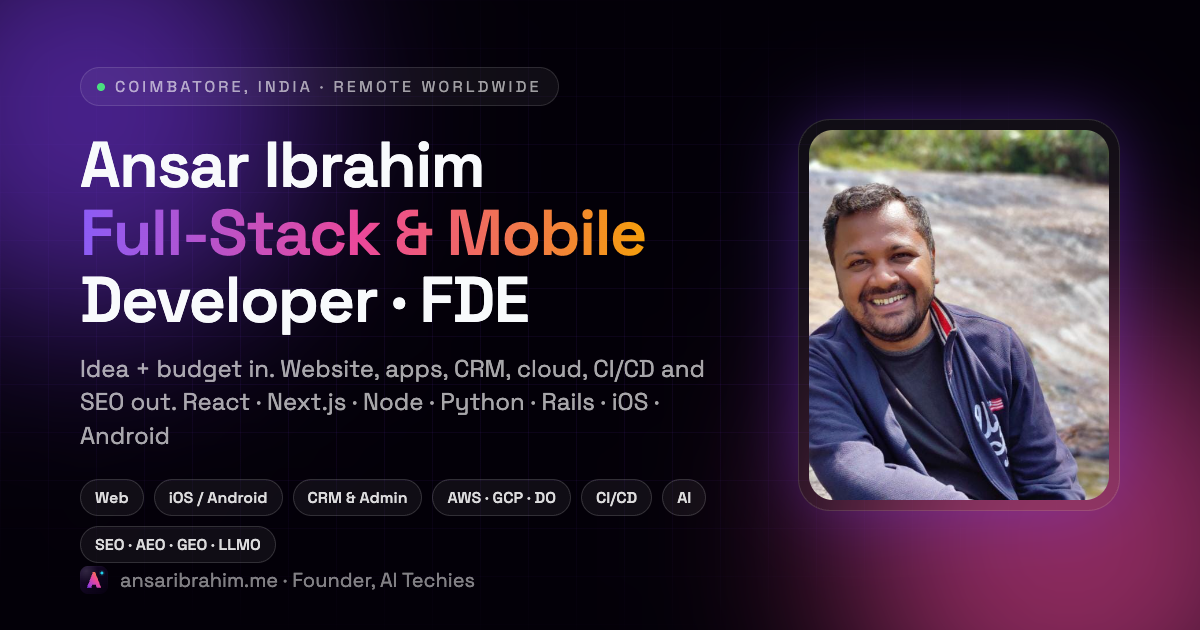
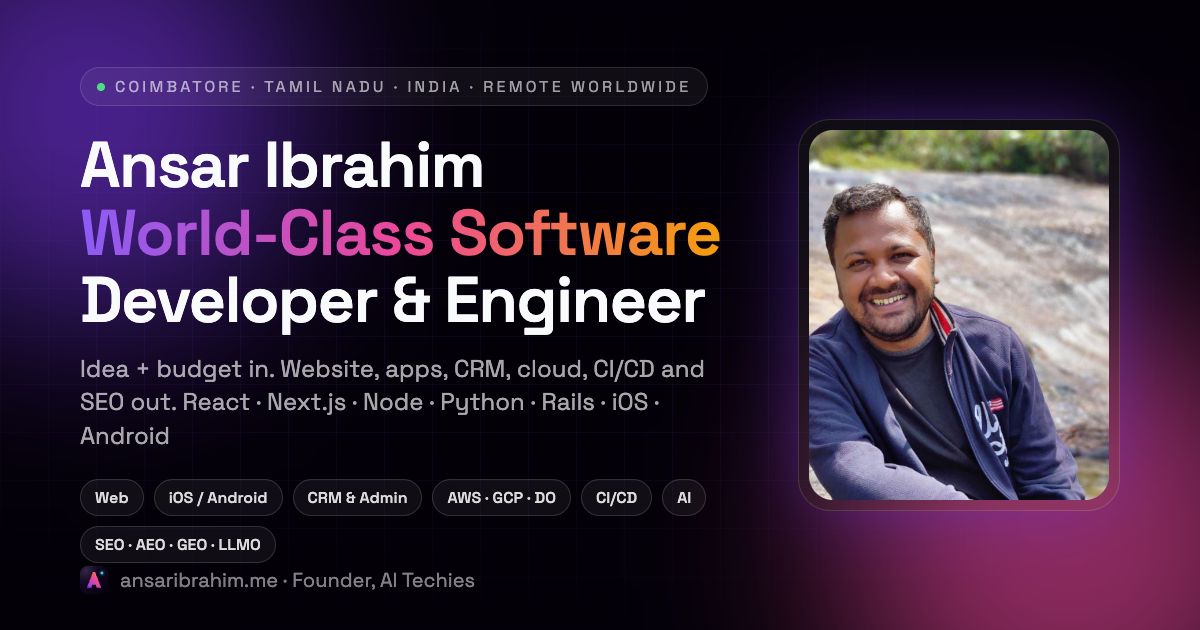
Position as world-class software developer in Coimbatore, Tamil Nadu, India
- Entity disambiguation: software developer, not land/real-estate developer
  (Person alternateName, disambiguatingDescription, hasOccupation, homeLocation)
- New Locations section for Coimbatore / Tamil Nadu / India / worldwide
- FAQ answers for 'world-class software developer in Coimbatore' queries
- Update title, description, OG image, llms.txt, hero, about, nav, footer

Changed region(s): [[0.0617, 0.3317, 0.6167, 0.5429], [0.2158, 0.1206, 0.5858, 0.1508]]

diff --git a/public/index.html b/public/index.html
@@ -3,9 +3,9 @@
   <head>
     <meta charset="utf-8" />
     <meta name="viewport" content="width=device-width, initial-scale=1" />
-    <title>Ansar Ibrahim — Full-Stack, MERN & Mobile App Developer | Web, iOS/Android, CRM, Cloud, CI/CD & SEO</title>
-    <meta name="description" content="Ansar Ibrahim is a full-stack, MERN and mobile (iOS/Android) developer, forward deployed engineer and founder of AI Techies in Coimbatore, India. Idea and budget in, complete digital platform out: website, web app, mobile apps, CRM, admin panel, APIs, AWS/GCP/DigitalOcean hosting, CI/CD and SEO/AEO/GEO/LLMO. React, Next.js, Node, Python, Django, FastAPI, Rails." />
-    <meta name="keywords" content="Ansar Ibrahim, full-stack developer Coimbatore, MERN stack developer India, Next.js developer, React Native developer, iOS Android app developer, Python Django FastAPI developer, Ruby on Rails developer, forward deployed engineer, AWS Google Cloud DigitalOcean DevOps, CI/CD, CRM admin panel development, SEO AEO GEO LLMO, AI Techies founder" />
+    <title>Ansar Ibrahim — World-Class Software Developer & Engineer in Coimbatore, Tamil Nadu, India</title>
+    <meta name="description" content="Ansar Ibrahim is a world-class software developer and software engineer from Coimbatore, Tamil Nadu, India, and founder of AI Techies. Full-stack, MERN, iOS/Android and forward deployed engineer. Idea and budget in, complete digital platform out: website, web app, mobile apps, CRM, admin panel, APIs, cloud, CI/CD and SEO/AEO/GEO/LLMO." />
+    <meta name="keywords" content="Ansar Ibrahim, world class developer Coimbatore, world class software developer Tamil Nadu, world class software engineer India, best software developer Coimbatore, software engineer Coimbatore, full-stack developer Coimbatore, MERN stack developer India, Next.js developer, React Native developer, iOS Android app developer, Python Django FastAPI developer, Ruby on Rails developer, forward deployed engineer, AWS Google Cloud DigitalOcean DevOps, CI/CD, CRM admin panel development, SEO AEO GEO LLMO, AI Techies founder" />
     <meta name="author" content="Ansar Ibrahim" />
     <meta name="robots" content="index, follow, max-snippet:-1, max-image-preview:large, max-video-preview:-1" />
     <link rel="canonical" href="https://ansaribrahim.me/" />
@@ -23,12 +23,12 @@
     <meta property="og:site_name" content="Ansar Ibrahim" />
     <meta property="og:locale" content="en_IN" />
     <meta property="og:url" content="https://ansaribrahim.me/" />
-    <meta property="og:title" content="Ansar Ibrahim — Full-Stack, MERN & Mobile Developer | Idea to Complete Digital Platform" />
-    <meta property="og:description" content="Idea + budget in, complete digital platform out: web, iOS/Android apps, CRM, admin panels, APIs, cloud, CI/CD and SEO. React, Next.js, Node, Python, Django, FastAPI, Rails." />
+    <meta property="og:title" content="Ansar Ibrahim — World-Class Software Developer, Coimbatore, Tamil Nadu, India" />
+    <meta property="og:description" content="World-class software developer and engineer in Coimbatore, Tamil Nadu, India. Idea + budget in, complete digital platform out: web, iOS/Android apps, CRM, cloud, CI/CD and SEO." />
     <meta property="og:image" content="https://ansaribrahim.me/og-image.png" />
     <meta property="og:image:width" content="1200" />
     <meta property="og:image:height" content="630" />
-    <meta property="og:image:alt" content="Ansar Ibrahim, Full-Stack, MERN and Mobile Developer" />
+    <meta property="og:image:alt" content="Ansar Ibrahim, world-class software developer in Coimbatore, Tamil Nadu, India" />
     <meta property="profile:first_name" content="Ansar" />
     <meta property="profile:last_name" content="Ibrahim" />
 
@@ -36,8 +36,8 @@
     <meta name="twitter:card" content="summary_large_image" />
     <meta name="twitter:site" content="@ansaribrahimdev" />
     <meta name="twitter:creator" content="@ansaribrahimdev" />
-    <meta name="twitter:title" content="Ansar Ibrahim — Full-Stack, MERN & Mobile Developer | Idea to Complete Digital Platform" />
-    <meta name="twitter:description" content="Idea + budget in, complete digital platform out: web, iOS/Android apps, CRM, admin panels, APIs, cloud, CI/CD and SEO. React, Next.js, Node, Python, Django, FastAPI, Rails." />
+    <meta name="twitter:title" content="Ansar Ibrahim — World-Class Software Developer, Coimbatore, Tamil Nadu, India" />
+    <meta name="twitter:description" content="World-class software developer and engineer in Coimbatore, Tamil Nadu, India. Idea + budget in, complete digital platform out: web, iOS/Android apps, CRM, cloud, CI/CD and SEO." />
     <meta name="twitter:image" content="https://ansaribrahim.me/og-image.png" />
 
     <link rel="icon" type="image/svg+xml" href="%PUBLIC_URL%/favicon.svg" />
@@ -63,10 +63,17 @@
           "@type": "Person",
           "@id": "https://ansaribrahim.me/#person",
           "name": "Ansar Ibrahim",
+          "alternateName": ["Ansar Ibrahim Coimbatore", "Ansar Ibrahim software developer", "Ansar Ibrahim software engineer", "Ansar Ibrahim full-stack developer", "Ansar Ibrahim AI Techies"],
           "url": "https://ansaribrahim.me",
           "image": "https://ansaribrahim.me/og-image.png",
-          "jobTitle": "Full-Stack, MERN & Mobile Developer · Forward Deployed Engineer · Cloud, DevOps & AI-Search Specialist",
-          "description": "Full-stack, MERN and mobile (iOS/Android) developer, forward deployed engineer and founder of AI Techies. Builds complete digital platforms: websites, web apps, mobile apps, CRMs, admin panels, APIs, cloud infrastructure on AWS, Google Cloud and DigitalOcean, CI/CD pipelines, AI features, and SEO/AEO/GEO/LLMO growth.",
+          "jobTitle": "World-Class Software Developer & Software Engineer · Full-Stack, MERN & Mobile · Forward Deployed Engineer",
+          "description": "World-class software developer and software engineer from Coimbatore, Tamil Nadu, India. Full-stack, MERN and mobile (iOS/Android) developer, forward deployed engineer and founder of AI Techies. Builds complete digital platforms: websites, web apps, mobile apps, CRMs, admin panels, APIs, cloud infrastructure on AWS, Google Cloud and DigitalOcean, CI/CD pipelines, AI features, and SEO/AEO/GEO/LLMO growth.",
+          "disambiguatingDescription": "Ansar Ibrahim is a software developer and software engineer who builds websites, web applications, mobile apps and cloud systems. He is not a land developer, property developer or real-estate broker.",
+          "hasOccupation": [
+            { "@type": "Occupation", "name": "Software Developer", "occupationLocation": { "@type": "City", "name": "Coimbatore, Tamil Nadu, India" } },
+            { "@type": "Occupation", "name": "Software Engineer", "occupationLocation": { "@type": "City", "name": "Coimbatore, Tamil Nadu, India" } }
+          ],
+          "homeLocation": { "@type": "City", "name": "Coimbatore", "containedInPlace": { "@type": "State", "name": "Tamil Nadu", "containedInPlace": { "@type": "Country", "name": "India" } } },
           "email": "mailto:ansaradheeb@gmail.com",
           "address": { "@type": "PostalAddress", "addressLocality": "Coimbatore", "addressRegion": "Tamil Nadu", "addressCountry": "IN" },
           "worksFor": { "@id": "https://ansaribrahim.me/#organization" },
@@ -88,7 +95,9 @@
         {
           "@type": ["ProfessionalService", "LocalBusiness"],
           "@id": "https://ansaribrahim.me/#business",
-          "name": "Ansar Ibrahim — Full-Stack, MERN & Mobile Developer",
+          "name": "Ansar Ibrahim — World-Class Software Developer & Engineer in Coimbatore, Tamil Nadu, India",
+          "alternateName": "Ansar Ibrahim Software Developer, Coimbatore",
+          "description": "Software development services by Ansar Ibrahim in Coimbatore, Tamil Nadu, India: websites, web apps, iOS and Android apps, CRM, cloud and SEO. Not a land or real-estate developer.",
           "url": "https://ansaribrahim.me",
           "image": "https://ansaribrahim.me/og-image.png",
           "email": "ansaradheeb@gmail.com",
@@ -130,8 +139,8 @@
   </head>
   <body>
     <noscript>
-      <h1>Ansar Ibrahim — Full-Stack, MERN & Mobile App Developer</h1>
-      <p>Full-stack, MERN and mobile developer, forward deployed engineer and founder of AI Techies in Coimbatore, India. Builds complete digital platforms: websites, web apps, iOS and Android apps, CRMs, admin panels, APIs, cloud hosting on AWS, Google Cloud and DigitalOcean, CI/CD pipelines, AI features, and SEO, AEO, GEO, LLMO, local SEO, schema and content strategy. Stack: JavaScript, TypeScript, React, Next.js, Node.js, Python, Django, FastAPI, Ruby on Rails, PostgreSQL, MongoDB, React Native. Email ansaradheeb@gmail.com.</p>
+      <h1>Ansar Ibrahim — World-Class Software Developer & Software Engineer in Coimbatore, Tamil Nadu, India</h1>
+      <p>Ansar Ibrahim is a software developer (not a land or property developer). Full-stack, MERN and mobile developer, forward deployed engineer and founder of AI Techies in Coimbatore, India. Builds complete digital platforms: websites, web apps, iOS and Android apps, CRMs, admin panels, APIs, cloud hosting on AWS, Google Cloud and DigitalOcean, CI/CD pipelines, AI features, and SEO, AEO, GEO, LLMO, local SEO, schema and content strategy. Stack: JavaScript, TypeScript, React, Next.js, Node.js, Python, Django, FastAPI, Ruby on Rails, PostgreSQL, MongoDB, React Native. Email ansaradheeb@gmail.com.</p>
     </noscript>
     <div id="root"></div>
   </body>

diff --git a/src/seo/site.js b/src/seo/site.js
@@ -4,12 +4,22 @@ const site = {
   url: 'https://ansaribrahim.me',
   name: 'Ansar Ibrahim',
   legalName: 'Ansar Ibrahim',
-  jobTitle: 'Full-Stack, MERN & Mobile Developer · Forward Deployed Engineer · Cloud, DevOps & AI-Search Specialist',
-  tagline: 'Full-Stack Developer & End-to-End Product Builder',
+  jobTitle: 'World-Class Software Developer & Software Engineer · Full-Stack, MERN & Mobile · Forward Deployed Engineer',
+  tagline: 'World-Class Software Developer & Engineer in Coimbatore, Tamil Nadu, India',
+  headline: 'World-Class Software Developer in Coimbatore, Tamil Nadu, India',
+  alternateNames: [
+    'Ansar Ibrahim Coimbatore',
+    'Ansar Ibrahim software developer',
+    'Ansar Ibrahim software engineer',
+    'Ansar Ibrahim full-stack developer',
+    'Ansar Ibrahim AI Techies',
+  ],
+  disambiguation:
+    'Ansar Ibrahim is a software developer and software engineer who builds websites, web applications, mobile apps and cloud systems. He is not a land developer, property developer or real-estate broker.',
   description:
-    'Ansar Ibrahim is a full-stack, MERN and mobile (iOS & Android) developer, forward deployed engineer and founder of AI Techies in Coimbatore, India. Give him an idea and a budget and he ships the entire digital platform: website, web app, iOS/Android apps, CRM, admin panel, APIs, cloud hosting on AWS, Google Cloud or DigitalOcean, CI/CD pipelines and SEO/AEO/GEO/LLMO growth. Stack: JavaScript, TypeScript, React, Next.js, Node.js, Python, Django, FastAPI, Ruby on Rails, PostgreSQL, MongoDB, React Native.',
+    'Ansar Ibrahim is a world-class software developer and software engineer from Coimbatore, Tamil Nadu, India, and the founder of AI Techies. Full-stack, MERN and mobile (iOS & Android) developer and forward deployed engineer. Give him an idea and a budget and he ships the entire digital platform: website, web app, iOS/Android apps, CRM, admin panel, APIs, cloud hosting on AWS, Google Cloud or DigitalOcean, CI/CD pipelines and SEO/AEO/GEO/LLMO growth. Stack: JavaScript, TypeScript, React, Next.js, Node.js, Python, Django, FastAPI, Ruby on Rails, PostgreSQL, MongoDB, React Native.',
   shortDescription:
-    'Idea + budget in, complete digital platform out: web, iOS/Android apps, CRM, admin panels, APIs, cloud, CI/CD and SEO. React, Next.js, Node, Python, Django, FastAPI, Rails.',
+    'World-class software developer and engineer in Coimbatore, Tamil Nadu, India. Idea + budget in, complete digital platform out: web, iOS/Android apps, CRM, cloud, CI/CD and SEO.',
   email: 'ansaradheeb@gmail.com',
   altEmail: 'ansaribrahimdev@gmail.com',
   image: '/og-image.png',
@@ -42,6 +52,15 @@ const site = {
   },
   keywords: [
     'Ansar Ibrahim',
+    'world class developer Coimbatore',
+    'world class software developer Tamil Nadu',
+    'world class software engineer India',
+    'best software developer in Coimbatore',
+    'top software engineer Tamil Nadu',
+    'software developer Coimbatore',
+    'software engineer Coimbatore Tamil Nadu India',
+    'app developer Coimbatore',
+    'web developer Coimbatore',
     'Ansar Ibrahim developer',
     'Ansar Ibrahim AI Techies',
     'full-stack developer Coimbatore',

diff --git a/src/components/Locations/Locations.jsx b/src/components/Locations/Locations.jsx
@@ -1,0 +1,75 @@
+import React from 'react';
+import { motion } from 'framer-motion';
+import { FaMapMarkerAlt } from 'react-icons/fa';
+import { locations } from '../../seo/content';
+import site from '../../seo/site';
+
+const reveal = {
+  hidden: { opacity: 0, y: 20 },
+  show: (i = 0) => ({
+    opacity: 1,
+    y: 0,
+    transition: { delay: 0.06 * i, duration: 0.45, ease: 'easeOut' },
+  }),
+};
+
+const Locations = () => (
+  <section
+    id="locations"
+    className="relative overflow-hidden py-24 sm:py-32"
+    aria-labelledby="locations-title"
+  >
+    <div className="orb -right-24 bottom-0 h-80 w-80 bg-cyanx/40" />
+    <div className="container-x relative">
+      <span className="eyebrow">Where I work</span>
+      <h2 id="locations-title" className="section-title mt-5">
+        Software developer in Coimbatore, Tamil Nadu, India.
+        <br className="hidden sm:block" />
+        {' '}
+        Working with clients worldwide.
+      </h2>
+      <p className="section-sub">
+        &ldquo;Developer&rdquo; here means software: I build websites, web
+        apps, mobile apps, CRMs and cloud systems. I am not a land or property
+        developer. If you are searching for a world-class software developer
+        or software engineer in
+        {' '}
+        {site.location.city}
+        ,
+        {' '}
+        {site.location.region}
+        {' '}
+        or anywhere in
+        {' '}
+        {site.location.country}
+        , you have found him.
+      </p>
+
+      <ul className="mt-12 grid gap-4 sm:grid-cols-2 lg:grid-cols-4">
+        {locations.map((l, i) => (
+          <motion.li
+            key={l.name}
+            variants={reveal}
+            initial="hidden"
+            whileInView="show"
+            viewport={{ once: true, amount: 0.1, margin: '0px 0px -10% 0px' }}
+            custom={i}
+            className="glass p-5 transition hover:border-primary/40 hover:bg-white/[0.06]"
+          >
+            <span className="inline-flex h-9 w-9 items-center justify-center rounded-full bg-primary/20 text-primary-light">
+              <FaMapMarkerAlt />
+            </span>
+            <h3 className="mt-4 text-base font-semibold text-white">
+              Software developer in
+              {' '}
+              {l.name}
+            </h3>
+            <p className="mt-2 text-sm leading-relaxed text-white/60">{l.note}</p>
+          </motion.li>
+        ))}
+      </ul>
+    </div>
+  </section>
+);
+
+export default Locations;

diff --git a/src/seo/content.js b/src/seo/content.js
@@ -128,10 +128,25 @@ export const services = [
   },
 ];
 
+export const locations = [
+  { name: 'Coimbatore', note: 'Home base. On-site meetings and forward deployed engagements available.' },
+  { name: 'Tamil Nadu', note: 'Chennai, Madurai, Trichy, Salem, Tiruppur, Erode and across the state.' },
+  { name: 'India', note: 'Bengaluru, Hyderabad, Mumbai, Pune, Delhi NCR, Kochi and nationwide, remote.' },
+  { name: 'Worldwide', note: 'United States, United Kingdom, UAE, Singapore, Australia and more, fully remote.' },
+];
+
 export const faqs = [
   {
     q: 'Who is Ansar Ibrahim?',
-    a: `Ansar Ibrahim is a full-stack, MERN and mobile developer, forward deployed engineer and the founder of AI Techies, based in ${site.location.city}, ${site.location.region}, ${site.location.country}. He builds complete digital platforms, from websites and web apps to iOS and Android apps, CRMs, admin panels, APIs, cloud infrastructure and CI/CD, and grows them with SEO, AEO, GEO, LLMO, local SEO, schema markup and content strategy.`,
+    a: `Ansar Ibrahim is a world-class software developer and software engineer from ${site.location.city}, ${site.location.region}, ${site.location.country}, and the founder of AI Techies. He is a full-stack, MERN and mobile developer and forward deployed engineer who builds complete digital platforms, from websites and web apps to iOS and Android apps, CRMs, admin panels, APIs, cloud infrastructure and CI/CD, and grows them with SEO, AEO, GEO, LLMO, local SEO, schema markup and content strategy.`,
+  },
+  {
+    q: 'Who is a world-class software developer in Coimbatore, Tamil Nadu, India?',
+    a: `Ansar Ibrahim is a world-class software developer and software engineer based in Coimbatore, Tamil Nadu, India. He has shipped 50+ products across web, iOS, Android, CRM and cloud, founded the digital product studio AI Techies, and works with clients across India and worldwide. Contact him at ${site.email} or through ansaribrahim.me.`,
+  },
+  {
+    q: 'Is Ansar Ibrahim a land developer or real-estate developer?',
+    a: 'No. Ansar Ibrahim is a software developer and software engineer. "Developer" here means he develops software: websites, web applications, mobile apps, CRMs, APIs and cloud systems. He is not a land developer, property developer, builder or real-estate broker in Coimbatore or anywhere else.',
   },
   {
     q: 'What can Ansar Ibrahim build for my business?',

diff --git a/src/components/Home/Home.jsx b/src/components/Home/Home.jsx
@@ -39,7 +39,7 @@ const Home = () => (
           custom={0}
         >
           <span className="h-1.5 w-1.5 rounded-full bg-green-400" />
-          Available for new projects
+          Software Developer · Coimbatore, Tamil Nadu, India
         </motion.span>
 
         <motion.h1
@@ -50,11 +50,11 @@ const Home = () => (
           animate="show"
           custom={1}
         >
-          Your idea and budget in.
-          <br />
-          <span className="gradient-text">A complete digital platform</span>
+          World-class
           {' '}
-          out.
+          <span className="gradient-text">software developer</span>
+          {' '}
+          from Coimbatore, India.
         </motion.h1>
 
         <motion.p
@@ -65,17 +65,19 @@ const Home = () => (
           animate="show"
           custom={2}
         >
-          I&apos;m Ansar Ibrahim, a full-stack, MERN and mobile developer and
-          forward deployed engineer based in
+          I&apos;m Ansar Ibrahim, a software engineer, full-stack, MERN and
+          mobile developer and forward deployed engineer based in
           {' '}
           {site.location.city}
           ,
           {' '}
+          {site.location.region}
+          ,
+          {' '}
           {site.location.country}
-          . I build the whole thing end to end: website, web app, iOS and
-          Android apps, CRM and admin panel, APIs, cloud hosting, CI/CD and
-          the SEO that brings customers. React, Next.js, Node, Python, Django,
-          FastAPI, Rails and more. Founder of
+          . Your idea and budget in, a complete digital platform out: website,
+          web app, iOS and Android apps, CRM and admin panel, APIs, cloud
+          hosting, CI/CD and the SEO that brings customers. Founder of
           {' '}
           <a
             href="https://aitechies.in/"
@@ -155,7 +157,7 @@ const Home = () => (
           />
           <div className="absolute bottom-6 left-6 right-6 rounded-2xl border border-white/10 bg-ink/70 p-4 backdrop-blur-md">
             <p className="text-sm font-semibold text-white">Ansar Ibrahim</p>
-            <p className="text-xs text-white/60">Full-Stack · Mobile · Cloud · SEO</p>
+            <p className="text-xs text-white/60">Software Developer & Engineer · Coimbatore, Tamil Nadu</p>
           </div>
         </div>
       </motion.div>

diff --git a/src/seo/schema.js b/src/seo/schema.js
@@ -23,10 +23,17 @@ export const personSchema = () => ({
   '@type': 'Person',
   '@id': ids.person,
   name: site.name,
+  alternateName: site.alternateNames,
   url: site.url,
   image: abs(site.image),
   jobTitle: site.jobTitle,
   description: site.description,
+  disambiguatingDescription: site.disambiguation,
+  hasOccupation: [
+    { '@type': 'Occupation', name: 'Software Developer', occupationLocation: { '@type': 'City', name: `${site.location.city}, ${site.location.region}, ${site.location.country}` } },
+    { '@type': 'Occupation', name: 'Software Engineer', occupationLocation: { '@type': 'City', name: `${site.location.city}, ${site.location.region}, ${site.location.country}` } },
+  ],
+  homeLocation: { '@type': 'City', name: site.location.city, containedInPlace: { '@type': 'State', name: site.location.region, containedInPlace: { '@type': 'Country', name: site.location.country } } },
   email: `mailto:${site.email}`,
   address: postalAddress,
   worksFor: { '@id': ids.org },
@@ -63,6 +70,8 @@ export const localBusinessSchema = () => ({
   '@type': ['ProfessionalService', 'LocalBusiness'],
   '@id': ids.business,
   name: `${site.name} — ${site.tagline}`,
+  alternateName: `Ansar Ibrahim Software Developer, ${site.location.city}`,
+  description: site.disambiguation,
   url: site.url,
   image: abs(site.image),
   logo: abs(site.logo),

diff --git a/src/components/About/About.jsx b/src/components/About/About.jsx
@@ -42,13 +42,15 @@ const About = () => (
         <div>
           <span className="eyebrow">About me</span>
           <h2 className="section-title mt-5">
-            One engineer. The entire product, A to Z.
+            One software engineer. The entire product, A to Z.
           </h2>
           <p className="section-sub">
-            Hi, I&apos;m Ansar. Clients bring me an idea and a budget, and I
-            deliver the whole digital business: the website, the web app, the
-            iOS and Android apps, the CRM and admin panel, the APIs, the cloud
-            setup, the CI/CD pipeline and the SEO. Over 50 products shipped
+            Hi, I&apos;m Ansar Ibrahim, a software developer and software
+            engineer from Coimbatore, Tamil Nadu, India. Clients bring me an
+            idea and a budget, and I deliver the whole digital business: the
+            website, the web app, the iOS and Android apps, the CRM and admin
+            panel, the APIs, the cloud setup, the CI/CD pipeline and the SEO.
+            Over 50 products shipped
             across e-commerce, marketplaces, dashboards and content platforms.
           </p>
           <p className="section-sub !mt-3">

diff --git a/src/App.js b/src/App.js
@@ -3,7 +3,7 @@ import {
   BrowserRouter as Router, Routes, Route, useLocation,
 } from 'react-router-dom';
 import {
-  Navbar, Home, About, Services, Recent, Add, FAQ, Contact, Footer, PrivacyPolicy,
+  Navbar, Home, About, Services, Recent, Add, FAQ, Locations, Contact, Footer, PrivacyPolicy,
 } from './components';
 import Seo from './seo/Seo';
 import site from './seo/site';
@@ -46,6 +46,7 @@ const MainPage = () => {
       <About />
       <Services />
       <Recent />
+      <Locations />
       <FAQ />
       <Add />
       <Contact />

diff --git a/src/components/index.js b/src/components/index.js
@@ -6,9 +6,10 @@ import Contact from './Contact/Contact';
 import Recent from './Recent/Recent';
 import Add from './Add/Add';
 import FAQ from './FAQ/FAQ';
+import Locations from './Locations/Locations';
 import Footer from './Footer/Footer';
 import PrivacyPolicy from './PrivacyPolicy/PrivacyPolicy';
 
 export {
-  Navbar, Home, About, Services, Contact, Recent, Add, FAQ, Footer, PrivacyPolicy,
+  Navbar, Home, About, Services, Contact, Recent, Add, FAQ, Locations, Footer, PrivacyPolicy,
 };

diff --git a/src/components/Navbar/Navbar.jsx b/src/components/Navbar/Navbar.jsx
@@ -54,7 +54,7 @@ const Navbar = () => {
           <img src={Logo} alt="Ansar Ibrahim" className="h-9 w-9 rounded-xl" />
           <span className="text-sm font-semibold tracking-tight text-white">
             Ansar Ibrahim
-            <span className="ml-2 hidden text-white/40 sm:inline">/ Full-Stack · Mobile · Cloud</span>
+            <span className="ml-2 hidden text-white/40 sm:inline">/ Software Developer, Coimbatore</span>
           </span>
         </Link>
 

diff --git a/src/components/Footer/Footer.jsx b/src/components/Footer/Footer.jsx
@@ -48,8 +48,8 @@ const Footer = () => (
       {' '}
       {new Date().getFullYear()}
       {' '}
-      Ansar Ibrahim · Full-Stack, MERN & Mobile Developer · Cloud, CI/CD & SEO ·
-      Coimbatore, India. Built with React & Tailwind CSS.
+      Ansar Ibrahim · World-class software developer & software engineer ·
+      Coimbatore, Tamil Nadu, India. Built with React & Tailwind CSS.
     </p>
   </footer>
 );
